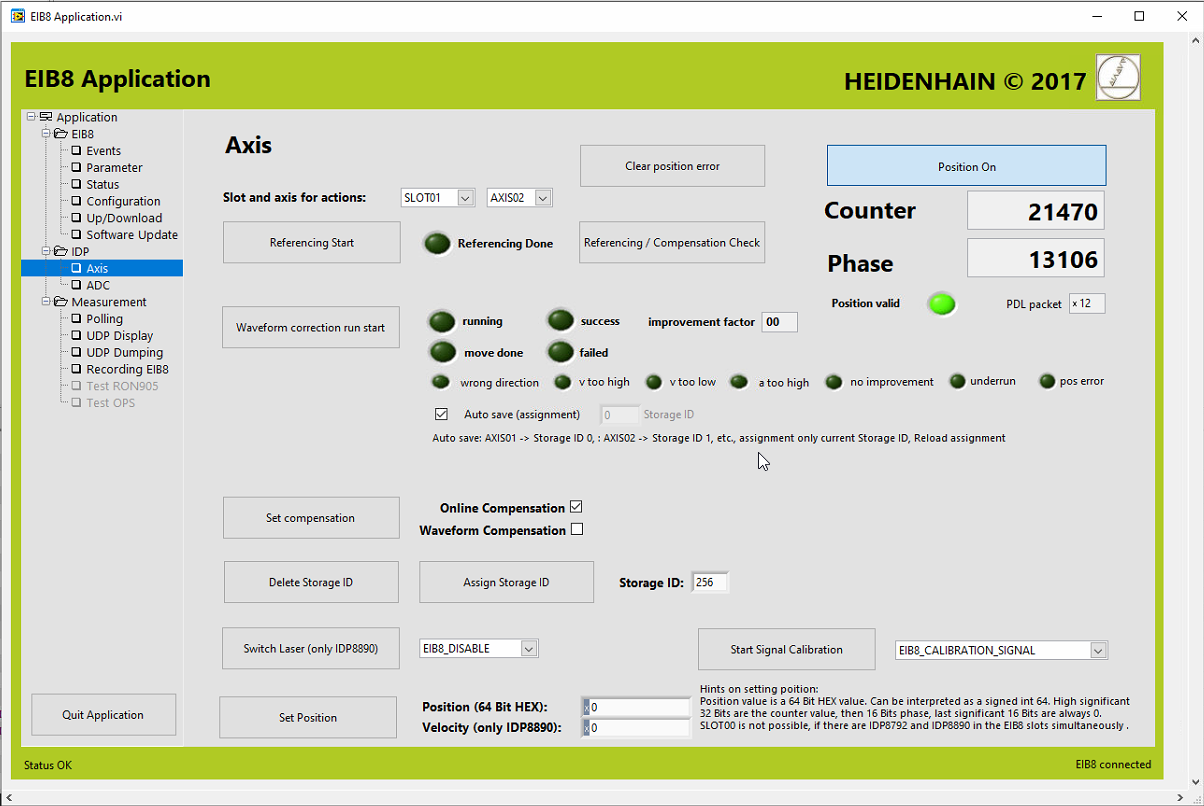
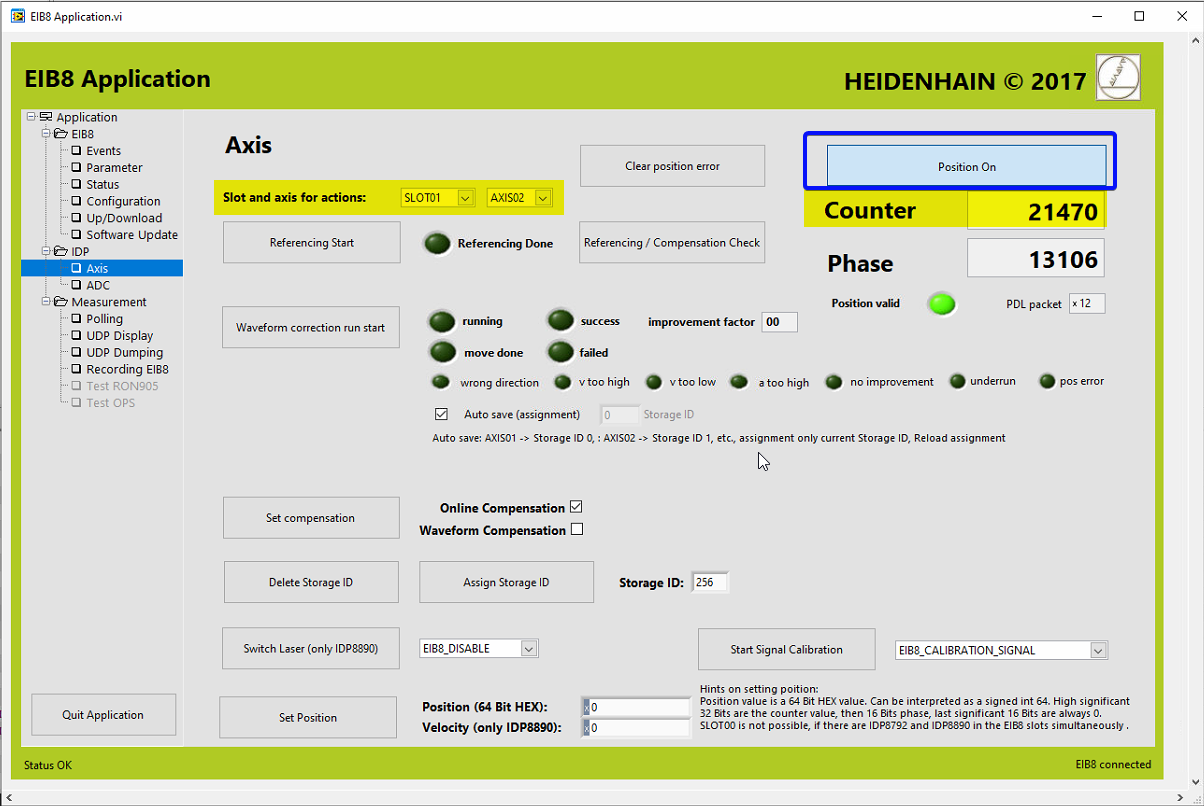
fix: issues with some figures

Changed region(s): [[0.6453, 0.1551, 0.9219, 0.2792], [0.1537, 0.2171, 0.4917, 0.2792], [0.9219, 0.1861, 0.9527, 0.2171]]

diff --git a/README.md b/README.md
@@ -326,6 +326,7 @@ Some of the steps shown for elevation are equivalent to ones in the azimuth axis
   - In the "Dumping format" select the "EIB8_PDL_DUMP_RAW_BINARY" format.
 - Start the UDP dumping by clicking in the "UDP PD Dump Start" button.
 - In the PAS4000, release the brake putting the bDebugElBrake to True.
+
   ![Release Elevation Brakes](media/ReleaseElevatoinBrake.png)
 - Wait until the brakes are released. The variable stmBrakeEL monitors the brakes status, and all brakes are released when this variables shows 50.
 - start movement with drills.
@@ -333,9 +334,11 @@ Some of the steps shown for elevation are equivalent to ones in the azimuth axis
   - Open the "Axis" window
   - In the "Slot and axis actions: " controls select SLOT01 and AXIS02.
   - Click the Position button
-  - The Counter shows the number of lines counted during the movement. The movement should increase/decrease by less than 1000lines/s
-![Check Movement with EIB position](media/ReleaseElevationBrake.png)
-- If elevation must stop 
+  - The Counter shows the number of lines counted during the movement. The movement should increase/decrease by less than 1000lines/s.
+
+![Check Movement with EIB position](media/VerificyEncoderPosition.png)
+
+- If elevation must stop
   - In EIB8 application, go to UDP dumping window and stop the UPD damping
   - In the PAS4000, engage the brake putting the bDebugElBrake to False.
   - In EIB8 application, in the UPD dumping change the "File for dumping data" name.
